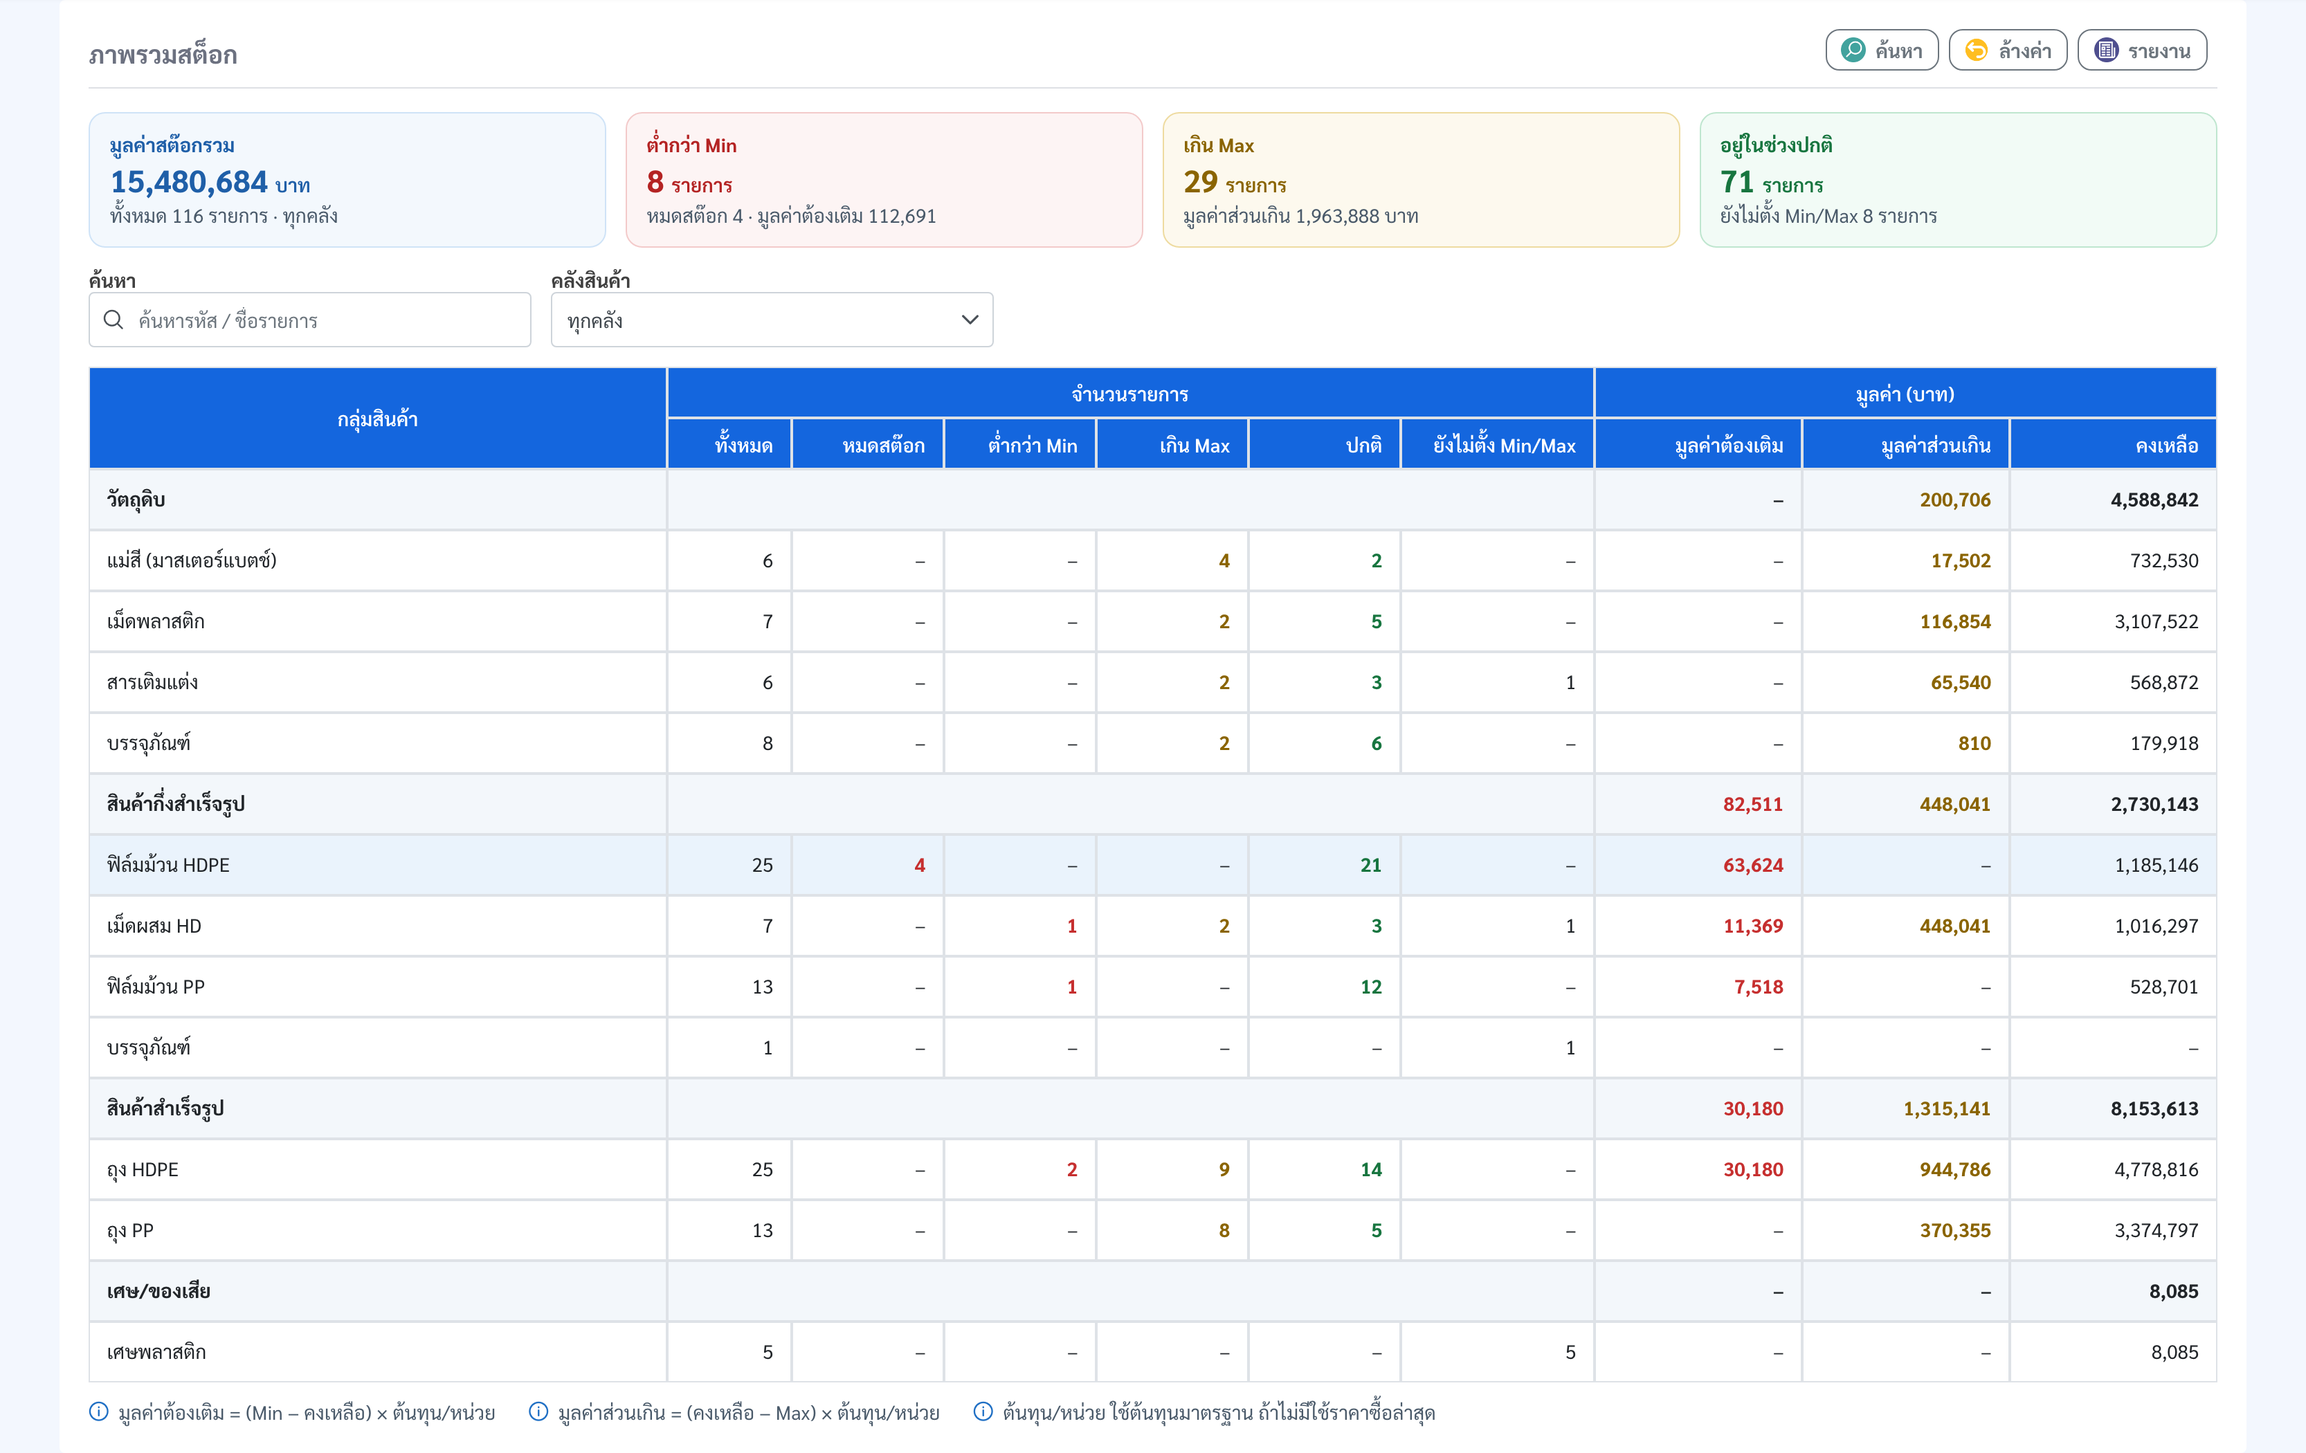
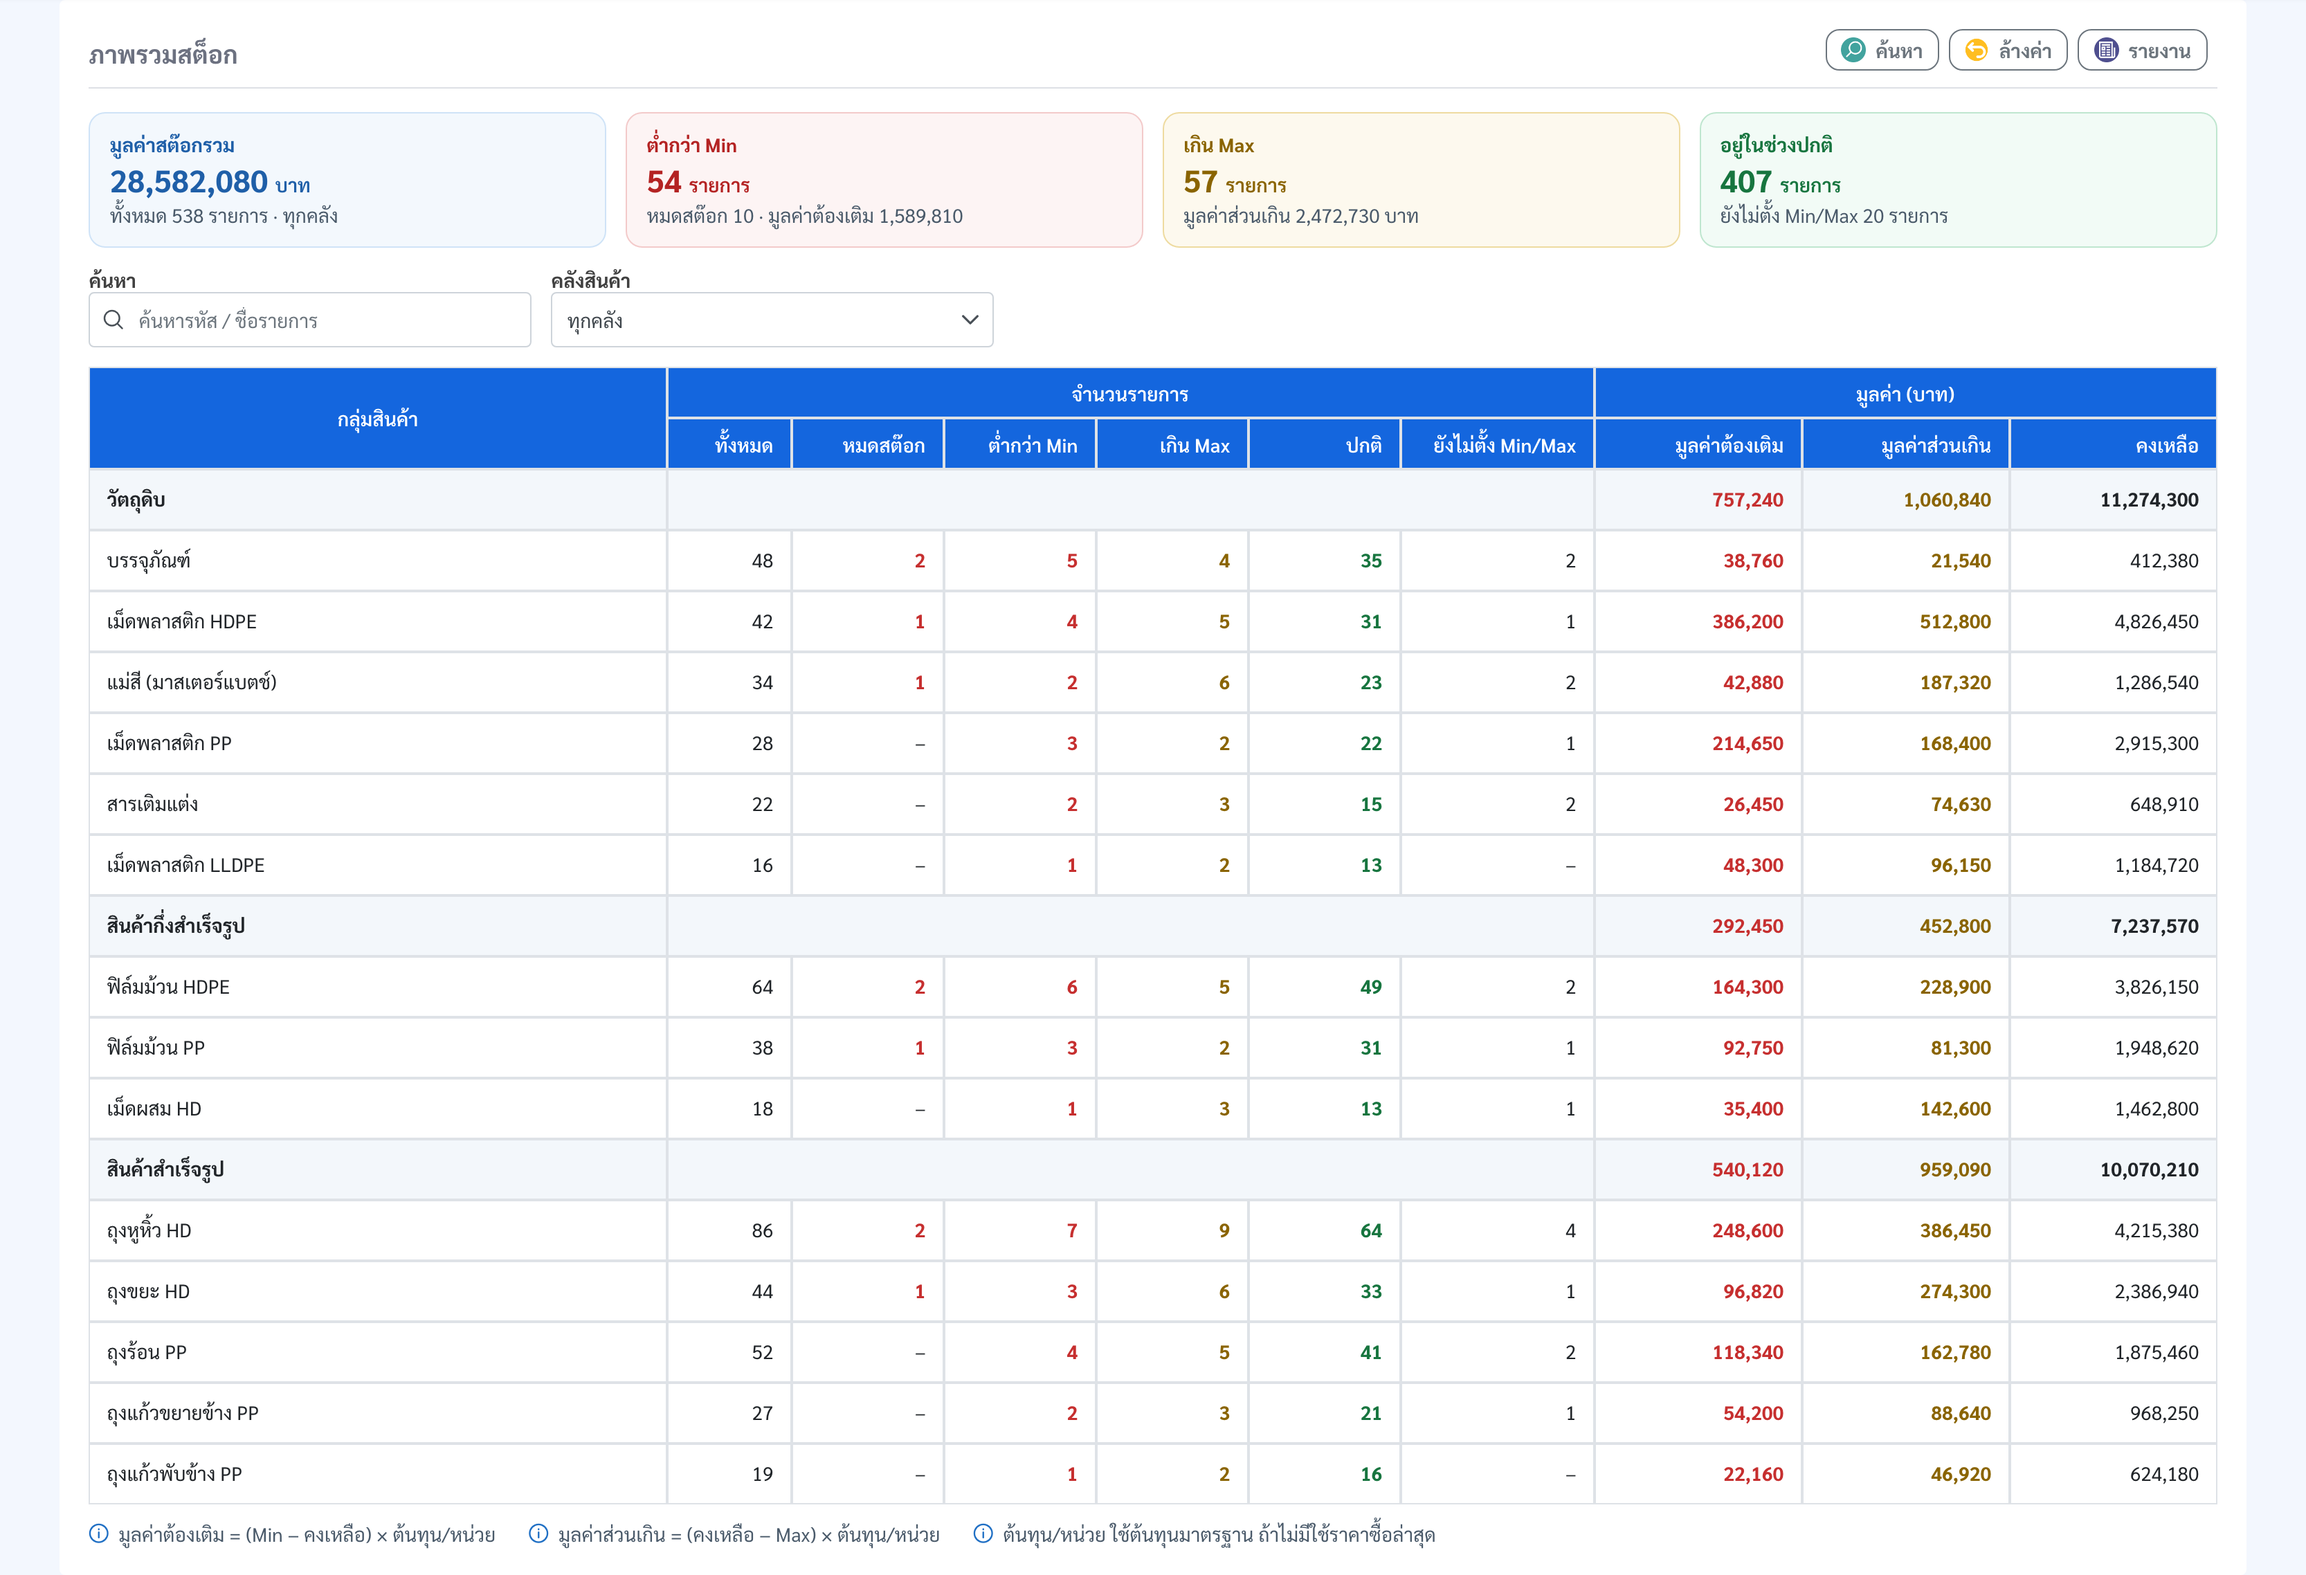
customer-deck: Stock Overview ใช้ข้อมูลจำลอง 14 กลุ่ม 538 รายการ (ภาพสวยขึ้น ไม่แตะฐาน)

diff --git a/customer-deck/index.html b/customer-deck/index.html
@@ -1287,7 +1287,7 @@ iframe.scr{border:0;display:block;background:#F4F7FB}
   <h1>Stock Overview</h1>
   <div class="rule"></div>
   <div class="wide-shot">
-    <div class="shot"><img width="3332" height="2100" src="img/shot-121a.png" alt="Stock Overview" data-t="Stock Overview — ภาพรวม Stock ทั้งคลัง (ดีไซน์ใหม่)"></div>
+    <div class="shot"><img width="3332" height="2276" src="img/shot-121a.png" alt="Stock Overview" data-t="Stock Overview — ภาพรวม Stock ทั้งคลัง (ดีไซน์ใหม่)"></div>
     <div class="sp-list">
       <div class="sp"><span class="n">1</span><div><div class="t">ของใกล้ขาด — เปิด PO ก่อนไลน์หยุด</div><div class="d">ระบบนับรายการที่หมดและต่ำกว่า Min แยกตามกลุ่ม พร้อมมูลค่าที่ต้องสั่งเติม ไม่ใช่แค่เตือน</div></div></div>
       <div class="sp"><span class="n">2</span><div><div class="t">ของจมเกิน Max เห็นพร้อมกัน</div><div class="d">มูลค่าเงินจมแสดงคู่กับของที่ขาด — ตัดสินใจทั้งสองด้านได้ในจอเดียว</div></div></div>
